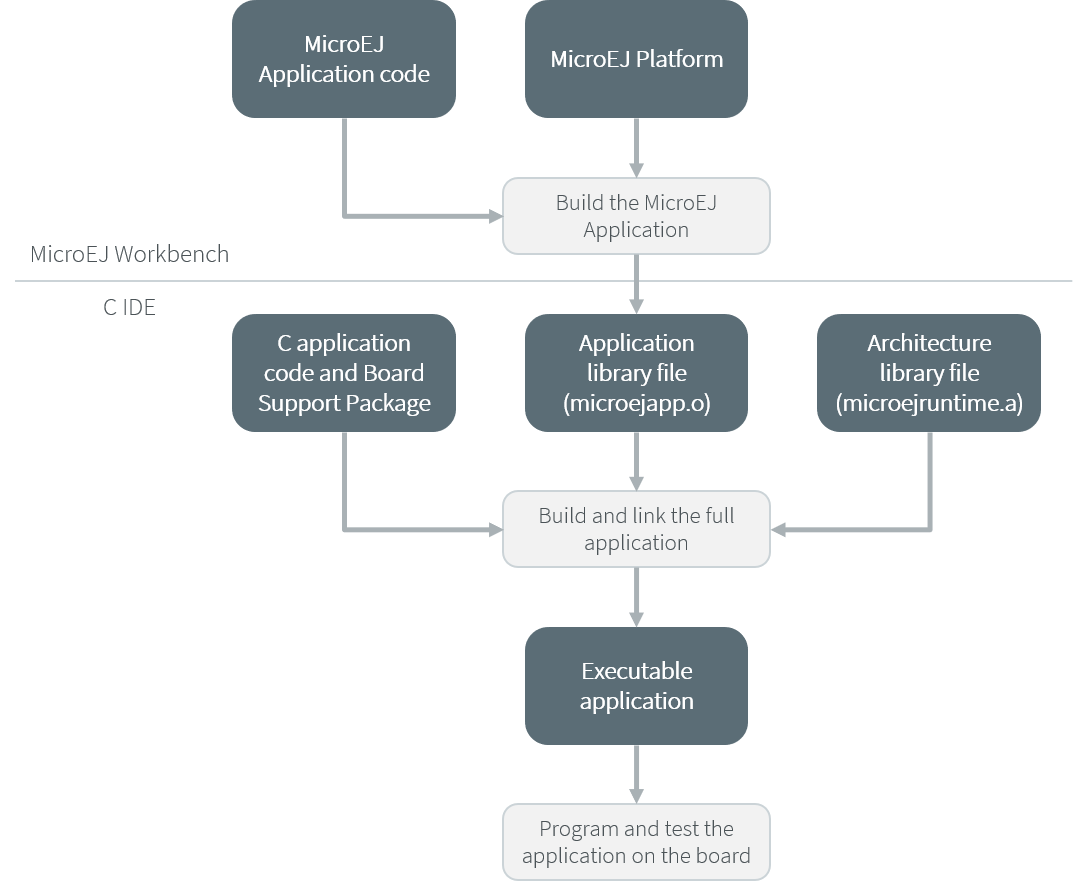
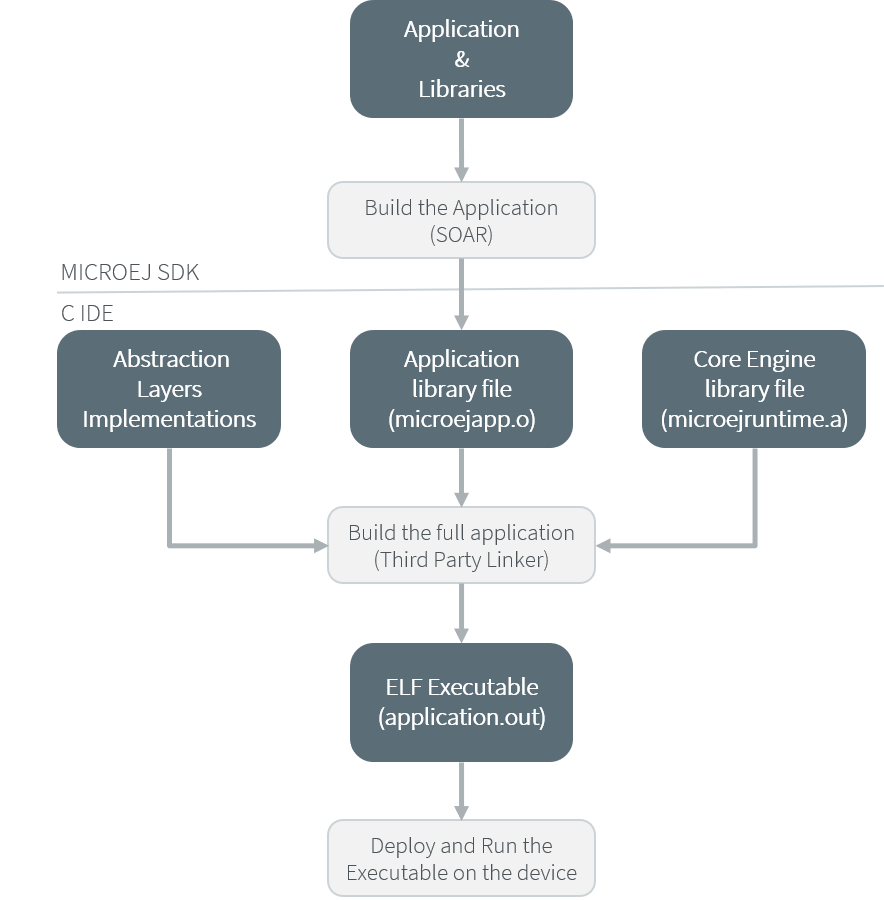
refresh the link flow from core engine point of view

Changed region(s): [[0.0305, 0.0, 0.9774, 1.0]]

diff --git a/VEEPortingGuide/coreEngine.rst b/VEEPortingGuide/coreEngine.rst
@@ -17,12 +17,12 @@ Block Diagram
 
    Core Engine Block Diagram
 
-Functional Description
-======================
+Link Flow
+=========
 
-:ref:`The following diagram <fig_mjvm_flow2>` shows the overall process. The first two
-steps are performed within the SDK. The remaining steps
-are performed within the C third-party IDE.
+:ref:`The following diagram <fig_mjvm_flow2>` shows the overall process. 
+Application development is performed within MICROEJ SDK.
+The remaining steps are performed within the C third-party IDE.
 
 .. _fig_mjvm_flow2:
 .. figure:: images/mjvm_flow2.*
@@ -40,7 +40,7 @@ are performed within the C third-party IDE.
 
 3. Step 3 consists in linking the previous ELF file with the 
    Core Engine library and a third-party BSP (OS, drivers, etc.). This
-   step may require a third-party linker provided by a C toolchain.
+   step requires a third-party linker provided by a C toolchain.
 
 
 Architecture
